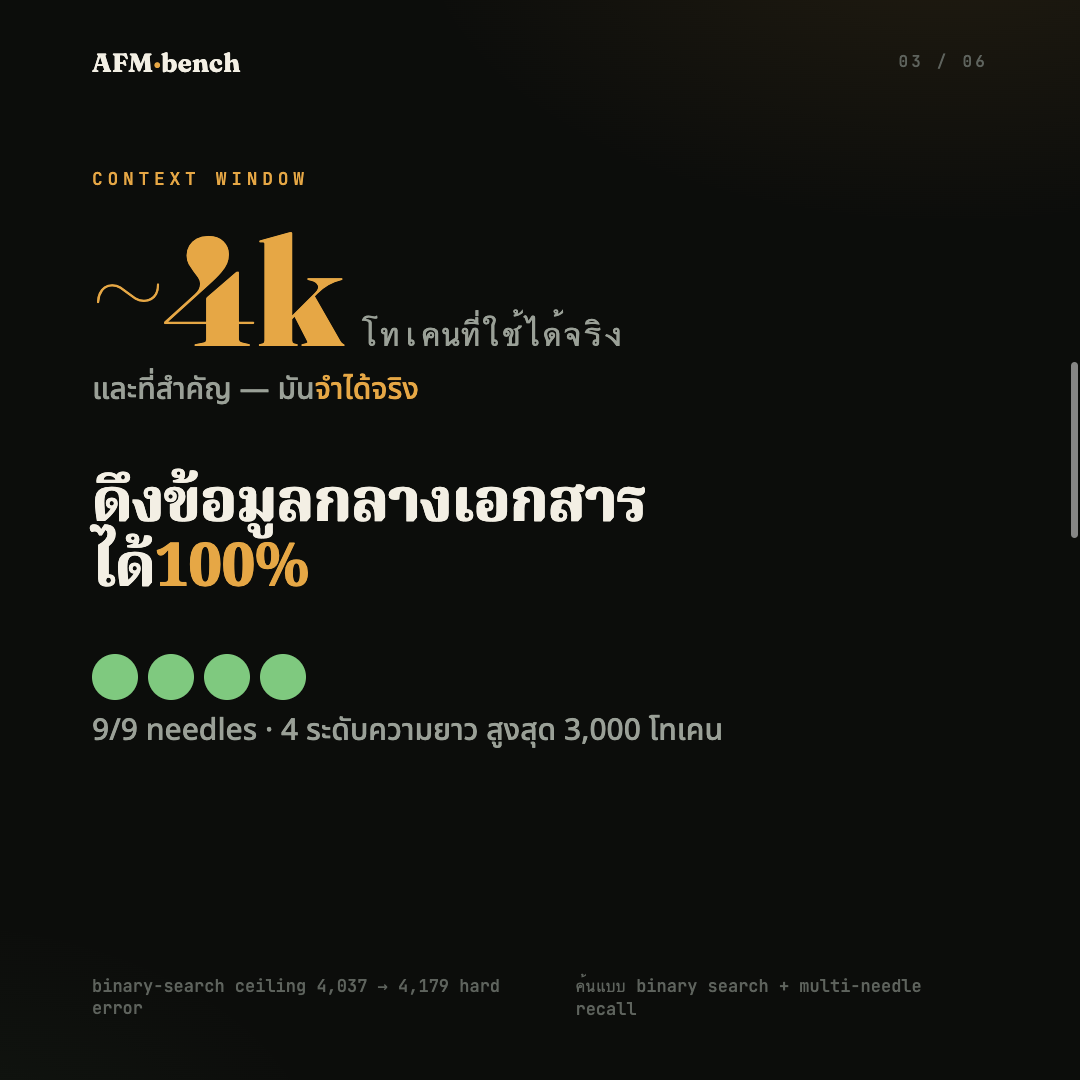
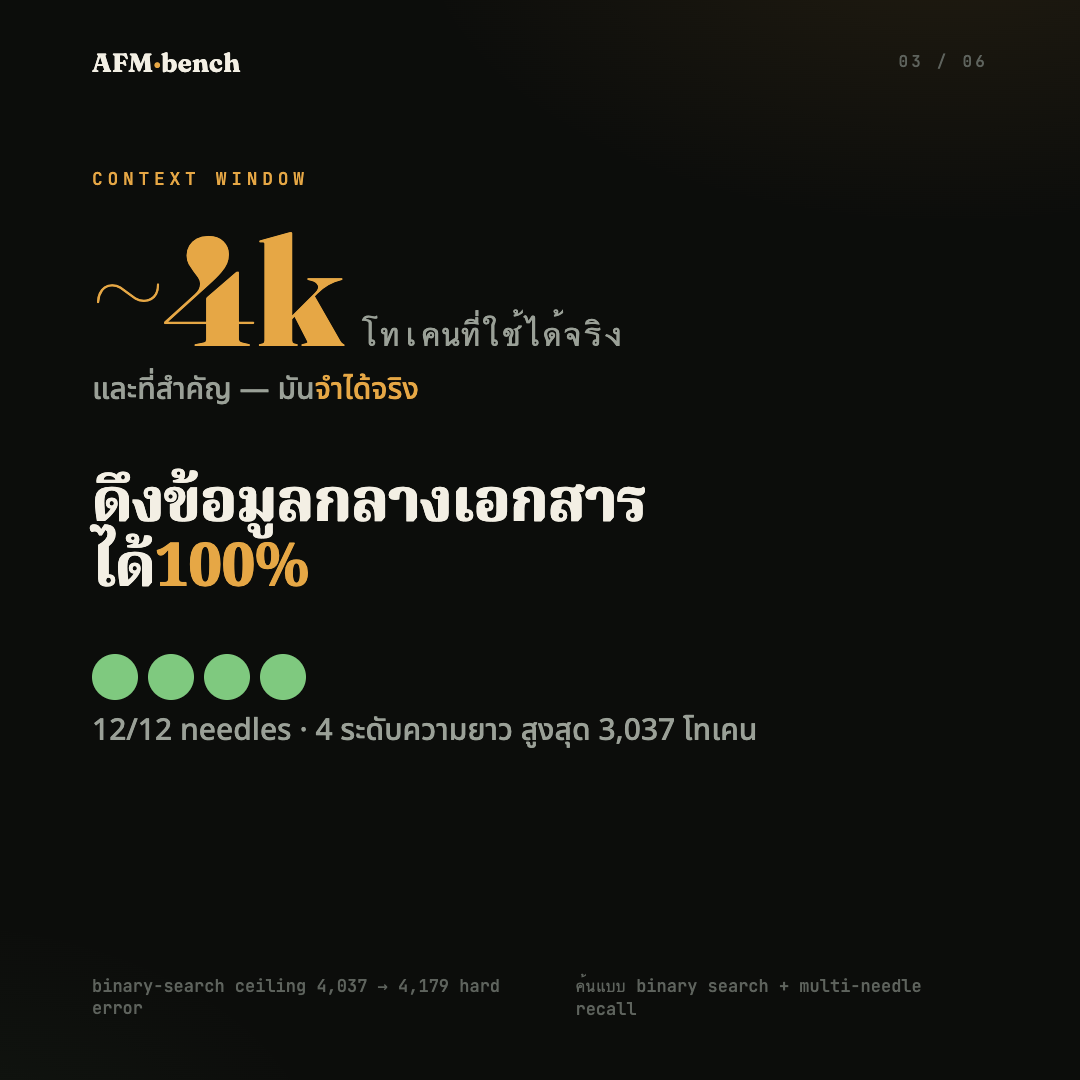
Align social copy + READMEs with measured values
- Recall is 12/12 needles (3/3 at every length) up to 3,037 tokens,
  not the stale "9/9 / 3,000". Fixed in thread.th.md + carousel slide 3.
- Cold first-token is ~2.44s (latency.cold.ttft=2.4404), not 2.55.
- Privacy generation window is 23s (gen_wall_s=22.67), not 24.
- Re-rendered carousel slides 3 and 5 (1080x1080) from the corrected
  slides.html so the posted PNGs match the dashboard exactly.

All numbers now match results/all.json and the live dashboard.

Changed region(s): [[0.0917, 0.6417, 0.7028, 0.7028], [0.9778, 0.3361, 1.0, 0.4889]]

diff --git a/social/carousel/slides.html b/social/carousel/slides.html
@@ -90,7 +90,7 @@ h2.mid em{font-style:normal;color:var(--amber)}
   <div class="cap">และที่สำคัญ — มัน<em style="color:var(--amber);font-style:normal">จำได้จริง</em></div>
   <h2 class="mid" style="font-size:60px;margin-top:10px">ดึงข้อมูลกลางเอกสาร<br>ได้<em>100%</em></h2>
   <div class="dots"><i class="on"></i><i class="on"></i><i class="on"></i><i class="on"></i></div>
-  <div class="cap">9/9 needles · 4 ระดับความยาว สูงสุด 3,000 โทเคน</div>
+  <div class="cap">12/12 needles · 4 ระดับความยาว สูงสุด 3,037 โทเคน</div>
   <div class="foot"><span>binary-search ceiling 4,037 → 4,179 hard error</span><span>ค้นแบบ binary search + multi-needle recall</span></div>
 </section>
 
@@ -114,7 +114,7 @@ h2.mid em{font-style:normal;color:var(--amber)}
   <div class="pageno">05 / 06</div>
   <div class="eyebrow">ความเป็นส่วนตัว</div>
   <div class="metric"><span class="num g">0</span><span class="unit">โพรเซสของโมเดล<br>ที่ส่งข้อมูลออกเครื่อง</span></div>
-  <div class="cap">ระหว่างสร้างคำตอบ 24 วินาที</div>
+  <div class="cap">ระหว่างสร้างคำตอบ 23 วินาที</div>
   <div style="margin-top:26px;font-family:var(--mono);font-size:23px;color:var(--mute);line-height:1.9">
     <span style="color:var(--cream)">ChatGPT · Spotify · Codex · mDNSResponder</span><br>
     <span style="color:var(--dim)">= แอปพื้นหลังทั้งหมด ไม่ใช่โมเดล</span><br>

diff --git a/social/thread.th.md b/social/thread.th.md
@@ -42,7 +42,7 @@ https://github.com/kokoabassplayer/apple-fm-benchmark
 ต่อให้ใส่ได้ ก็ไม่แปลว่าจะจำได้
 
 แต่ใน 4k นั้น — ดึงข้อมูลกลางเอกสารได้ 100%
-(9/9 needles · ทุกตำแหน่ง · ยาวสูงสุด 3,000 โทเคน)
+(12/12 needles · ทุกตำแหน่ง · ยาวสูงสุด 3,037 โทเคน)
 
 เราแยกให้ชัด: "พอดี" (binary search → 4,037) vs "จำได้จริง" (multi-needle recall)
 เพราะเลขเดียวบอกความจริงไม่ได้
@@ -57,7 +57,7 @@ https://github.com/kokoabassplayer/apple-fm-benchmark
 เขียนคำตอบ (decode): ~71 tok/s
 
 ทั้งสองค่าหาจาก ถดถอยเชิงเส้น ไม่ใช่จับเวลาจุดเดียว
-โทเคนแรกตอนอุ่น ~0.42 วินาที (เย็น ~2.55 วินาทีตอนโหลดครั้งแรก)
+โทเคนแรกตอนอุ่น ~0.42 วินาที (เย็น ~2.44 วินาทีตอนโหลดครั้งแรก)
 
 ความเร็วอ่านเกินคาดมาก — เร็วกว่าเขียนเกือบ 14 เท่า
 
@@ -67,7 +67,7 @@ https://github.com/kokoabassplayer/apple-fm-benchmark
 
 คำถามใหญ่: ข้อมูลรั่วออกเครื่องไหม?
 
-เราดักฟังเครือข่ายระหว่างสร้างคำตอบ 24 วินาที:
+เราดักฟังเครือข่ายระหว่างสร้างคำตอบ 23 วินาที:
 → โพรเซสของโมเดลที่ส่งข้อมูลออก = 0
 → ที่เห็นมีแค่ ChatGPT · Spotify · Codex · mDNSResponder (แอปพื้นหลัง ไม่ใช่โมเดล)
 

diff --git a/README.md b/README.md
@@ -17,8 +17,8 @@ can re-measure it on yours.
 | **Prefill** (reads prompt) | ~967 tok/s | slope of TTFT vs input length |
 | **Decode** (writes answer) | ~71 tok/s | slope of wall-time vs output length |
 | **Warm first-token** | ~0.42 s | median, short output |
-| **Cold first-token** | ~2.55 s | first call (model load) |
-| **Network privacy** | 0 model-related processes observed | differential en0 bytes + nettop, during a 24s generation |
+| **Cold first-token** | ~2.44 s | first call (model load) |
+| **Network privacy** | 0 model-related processes observed | differential en0 bytes + nettop, during a 23s generation |
 | **GSM8K / HumanEval / MMLU** | see dashboard | standard open suites |
 
 A single "tokens/sec" number is misleading, so we report **two** speeds (prefill

diff --git a/README.th.md b/README.th.md
@@ -16,8 +16,8 @@
 | **Prefill** (อ่าน prompt) | ~967 tok/s | ความชัน TTFT vs ความยาว input |
 | **Decode** (เขียนคำตอบ) | ~71 tok/s | ความชันเวลา vs ความยาว output |
 | **โทเคนแรก (อุ่น)** | ~0.42 วินาที | มัธยฐาน, output สั้น |
-| **โทเคนแรก (เย็น)** | ~2.55 วินาที | ครั้งแรก (โหลดโมเดล) |
-| **ความเป็นส่วนตัวเครือข่าย** | ไม่พบโพรเซสของโมเดล | ดิฟเฟอเรนเชียล en0 + nettop ระหว่างสร้างคำตอบ 24 วินาที |
+| **โทเคนแรก (เย็น)** | ~2.44 วินาที | ครั้งแรก (โหลดโมเดล) |
+| **ความเป็นส่วนตัวเครือข่าย** | ไม่พบโพรเซสของโมเดล | ดิฟเฟอเรนเชียล en0 + nettop ระหว่างสร้างคำตอบ 23 วินาที |
 | **GSM8K / HumanEval / MMLU** | ดูในแดชบอร์ด | ชุดทดสอบมาตรฐานเปิด |
 
 ตัวเลข "tokens/sec" ตัวเดียวทำให้เข้าใจผิด เราเลยรายงาน **สอง** ความเร็ว (prefill กับ decode)